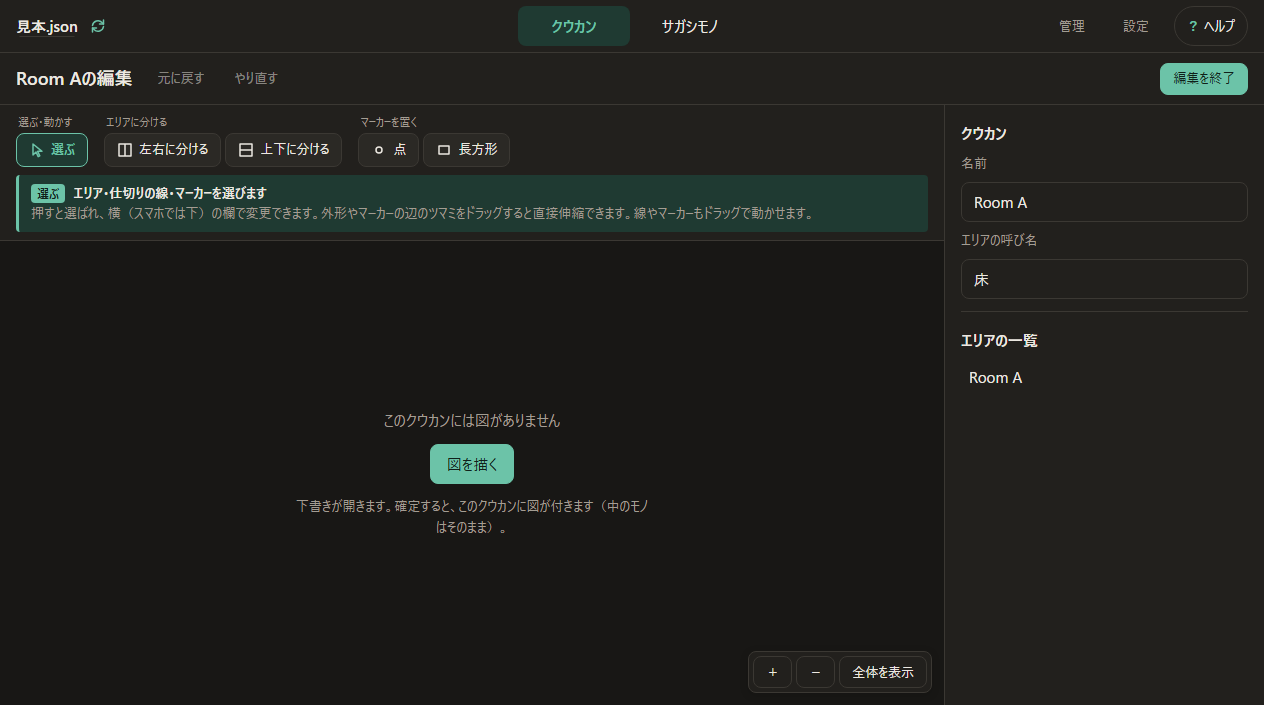
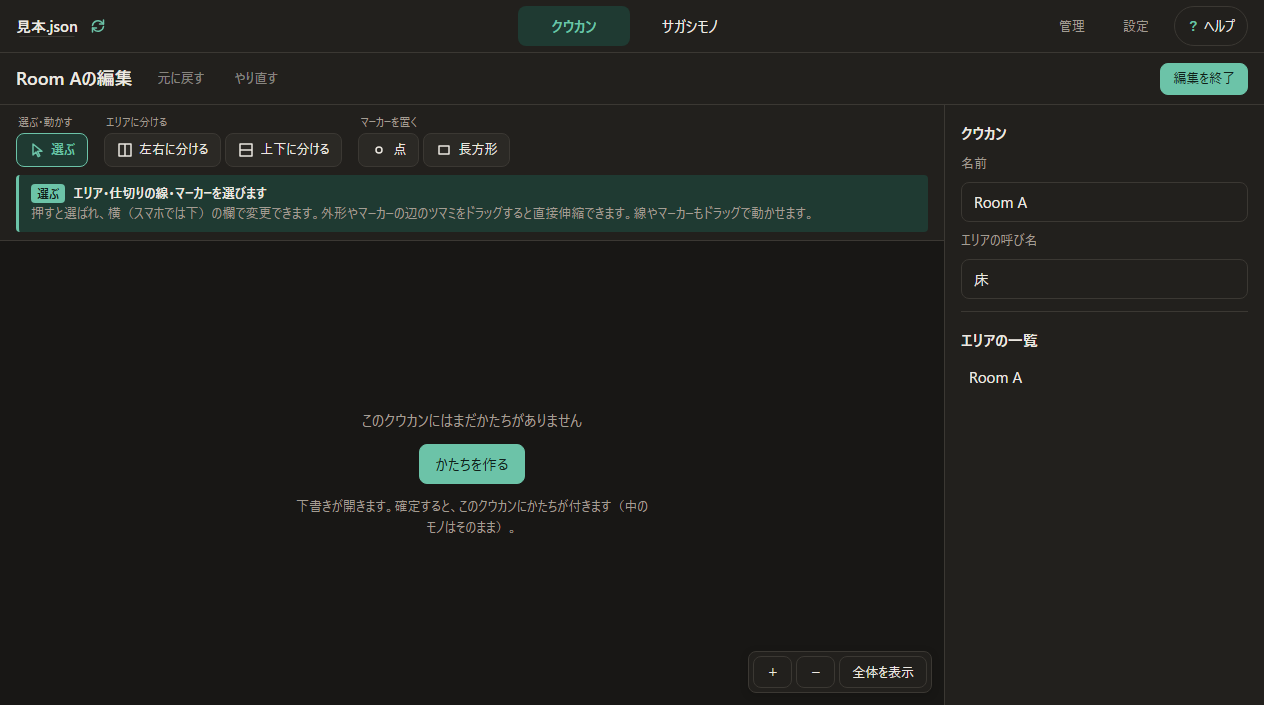
fix(ui): unify shape action wording to かたちを編集 / 編集 while keeping 作る for creation contexts

Changed region(s): [[0.2777, 0.5617, 0.5245, 0.7801], [0.2468, 0.6865, 0.3085, 0.7489]]

diff --git a/src/app/help.ts b/src/app/help.ts
@@ -40,8 +40,7 @@ export const HELP: Record<Exclude<HelpTopic, 'words'>, HelpPage> = {
     ],
     buttons: [
       { label: '開く', text: 'クウカンビューで、中のモノを見たり追加したりします。' },
-      { label: 'かたちを編集', text: 'クウカンのかたち（輪郭・仕切り・マーカー）や名前を直します。' },
-      { label: 'かたちを作る', text: 'かたちのないクウカンに、新しくかたちを作ります。' },
+      { label: 'かたちを編集', text: 'クウカンのかたち（輪郭・仕切り・マーカー）や名前を直します。かたちのないクウカンには、新しくかたちを設定できます。' },
       { label: '…', text: '複製・名前の変更・削除。削除すると、中のモノは「未設定」に移ります。' },
       { label: 'テンプレートから', text: '6畳間や棚など、よくある形から作ります。' },
       { label: '未設定', text: '置き場がまだ決まっていないモノの入れ物です。消せません。' },

diff --git a/src/ui/screens/KuukanScreen.svelte b/src/ui/screens/KuukanScreen.svelte
@@ -275,13 +275,13 @@
           <button
             type="button"
             class="small"
-            title={hasDrawing(kuukan.id) ? 'クウカンのかたちや仕切り、目印を編集します' : 'このクウカンのかたちを作ります'}
+            title="クウカンのかたちや仕切り、目印を編集します"
             onclick={(e) => {
               e.stopPropagation();
               handleEditKuukan(kuukan.id);
             }}
           >
-            {hasDrawing(kuukan.id) ? 'かたちを編集' : 'かたちを作る'}
+            かたちを編集
           </button>
 
           <div class="menu-container">

diff --git a/src/ui/screens/EditorScreen.svelte b/src/ui/screens/EditorScreen.svelte
@@ -83,7 +83,7 @@
       case 'redraw': {
         const doc = $app.doc;
         const name = doc ? displayName(doc, origin.source) : '';
-        return `${name}のかたちを作る（下書き）`;
+        return `${name}のかたちを編集（下書き）`;
       }
     }
   });

diff --git a/src/ui/screens/ViewScreen.svelte b/src/ui/screens/ViewScreen.svelte
@@ -208,7 +208,7 @@
                     class="primary small"
                     onclick={handleRedraw}
                   >
-                    かたちを作る
+                    編集
                   </button>
                 {/if}
               </div>
